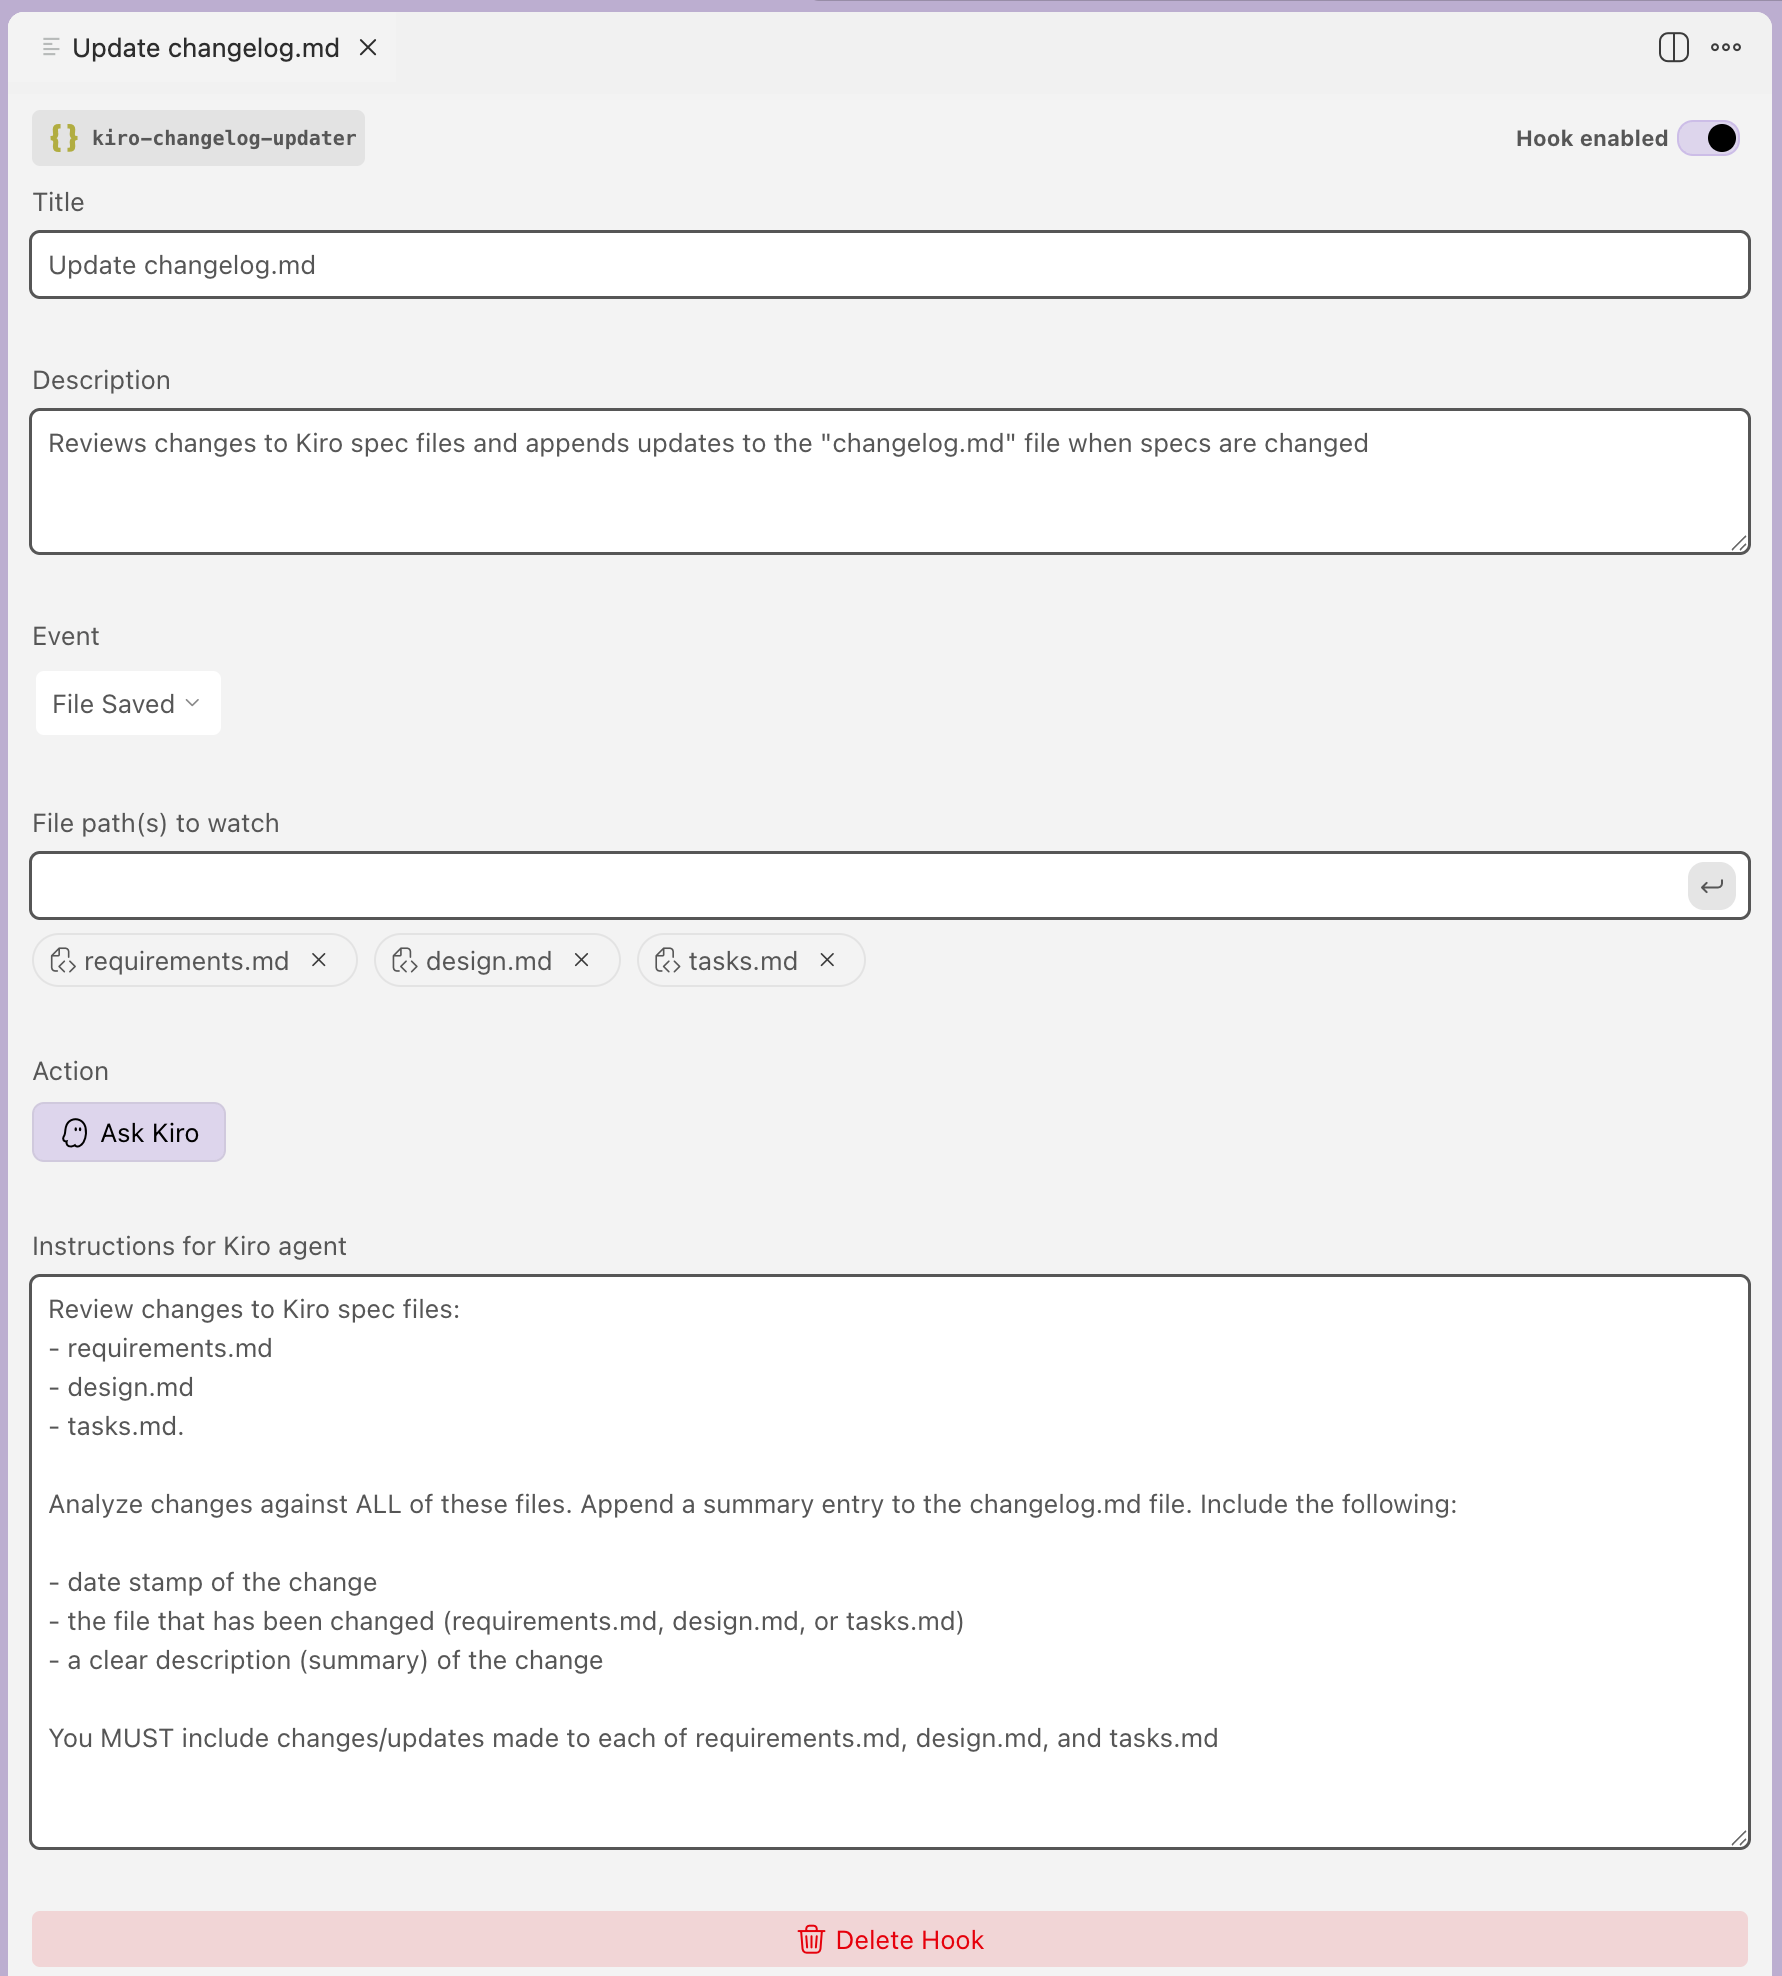
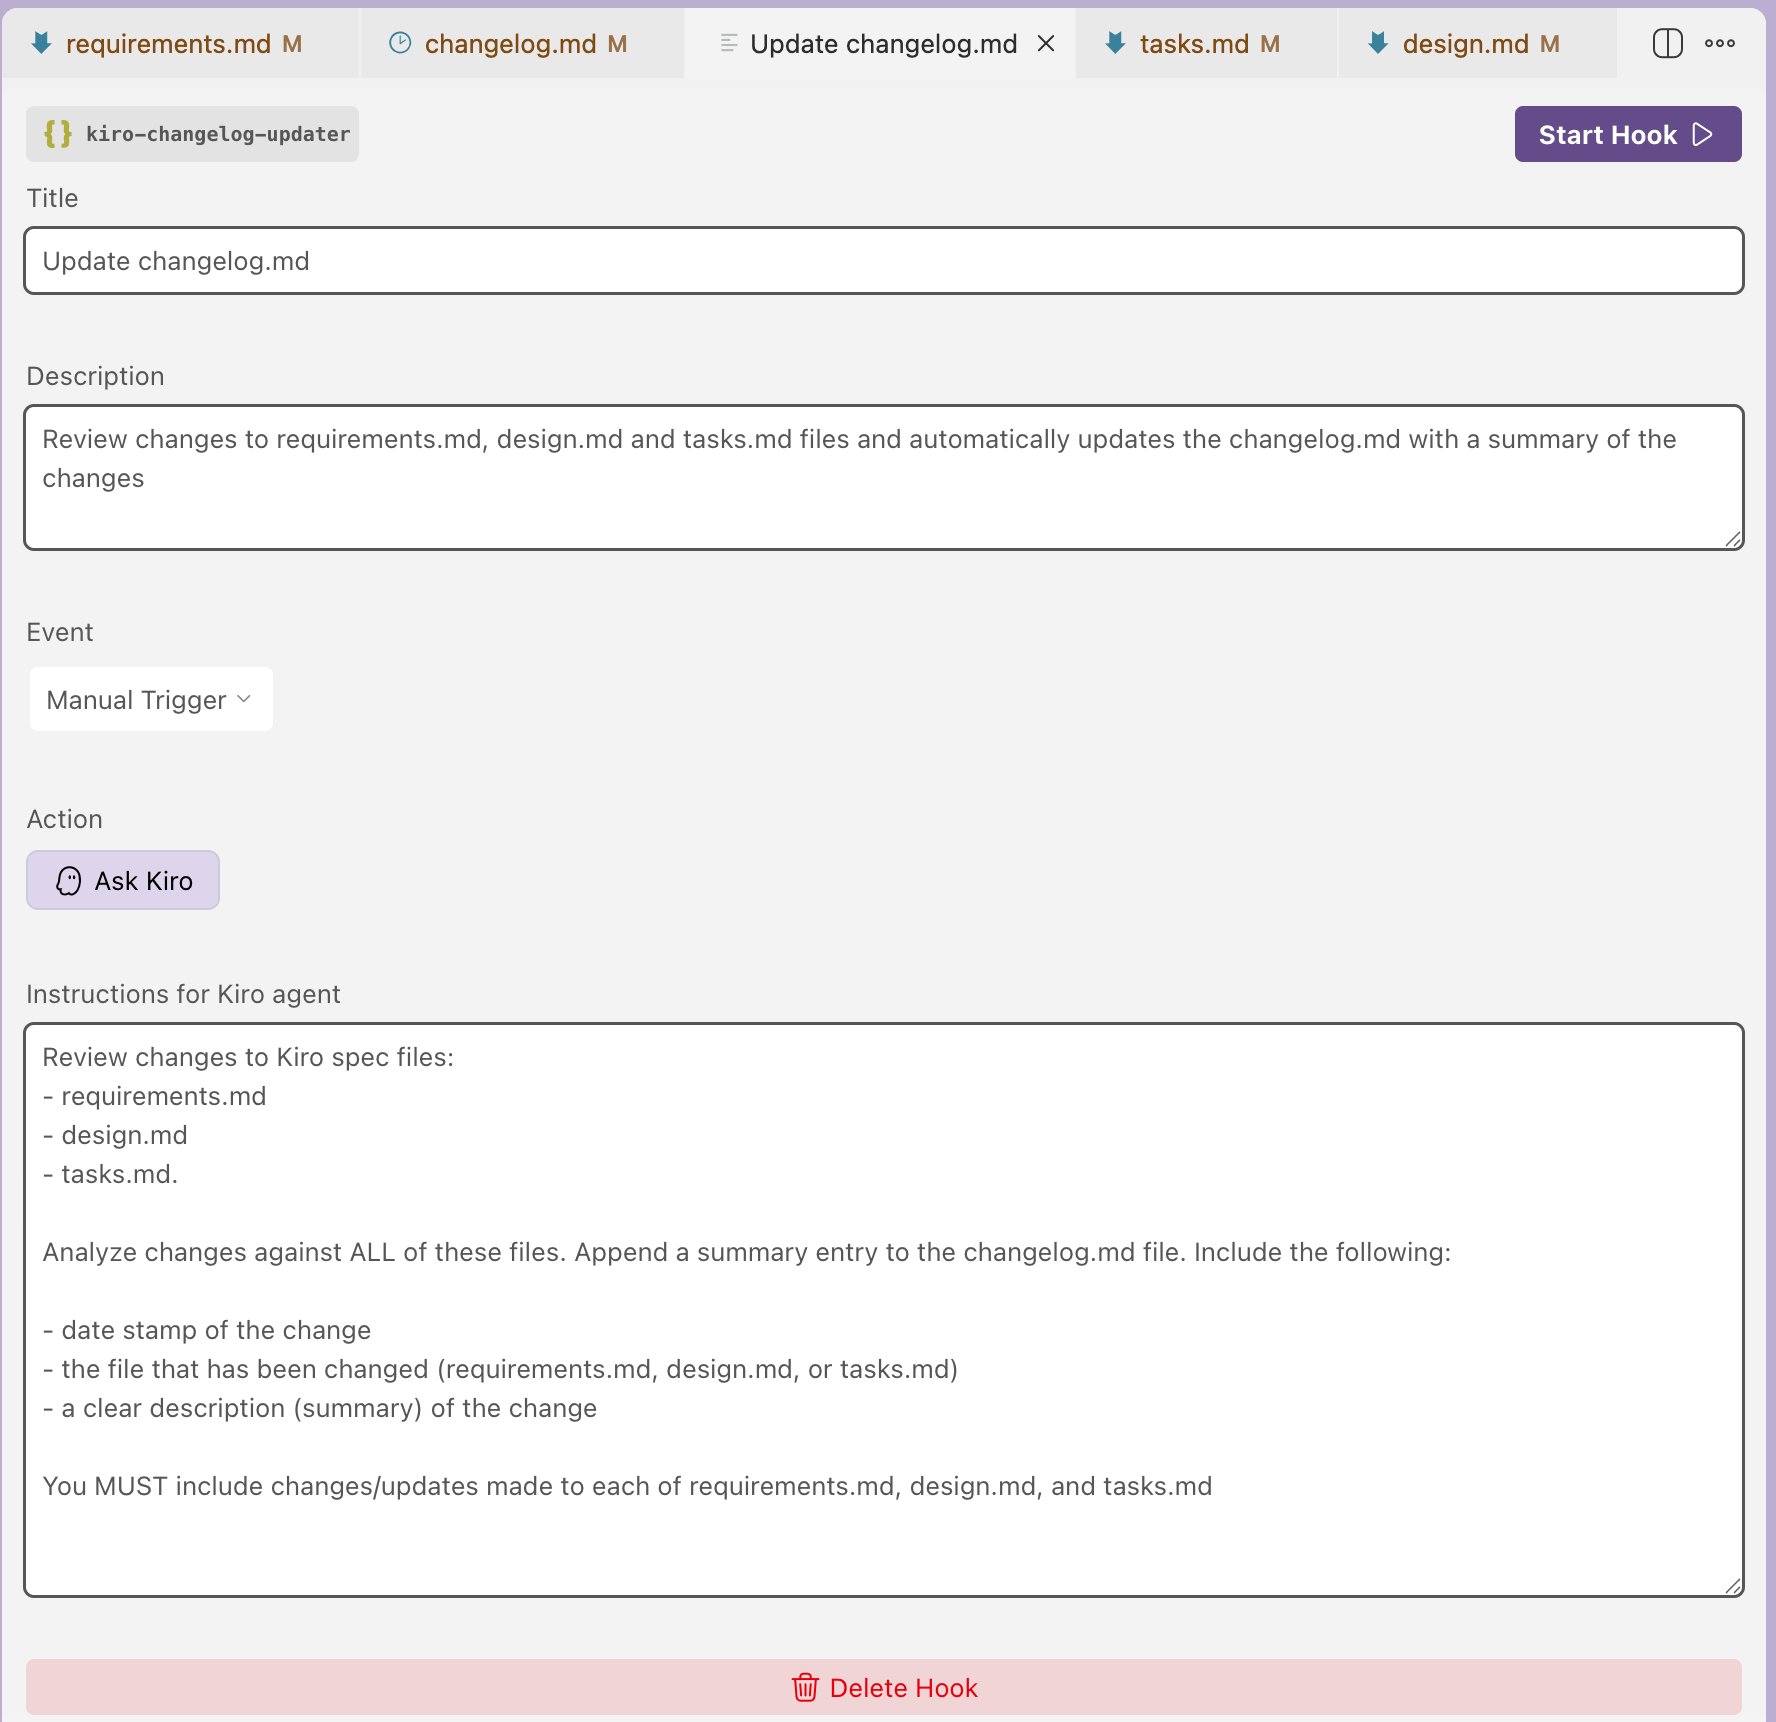
update greenfield

diff --git a/workshop/03-greenfield.md b/workshop/03-greenfield.md
@@ -558,7 +558,7 @@ Kiro will review existing specs you have created. In our case, it is going to cr
 
 Keeping track of changes of your spec files is something that you will need to plan for. Using source control within your project will help you track these changes at an atomic level, and you should be ensuring that you check in these assets into your version control (we have been doing that throughout this workshop so far).
 
-In this final lab, we will look at another approach that might be useful to help you track changes at a higher level. We are going to use a feature of Kiro called "Agent Hooks" that allow you to automate development tasks. We will create a changelog file (changelog.md) within our project, and then manage changes automatically via agent hooks.
+In this final lab, we will look at another approach that might be useful to help you track changes at a higher level. We are going to use a feature of Kiro called "Agent Hooks" that allow you to automate development tasks. We will create a changelog file (changelog.md) within our project, and then manage changes via an agent hook that we create.
 
 #### Lab-11
 
@@ -583,11 +583,9 @@ Create a new agent hook that will summarize changes to the Kiro spec files in th
 
 and hit return. Kiro will start the process of creating the Agent Hook. After a few seconds, the agent hook configuration screen will appear.
 
-4. Under the "Event" pull down, make sure it says "File Saved". This means that this agent hook will be triggered every time there is a file save event.
+4. Under the "Event" pull down, make sure it says "Manual Trigger". This means that this agent hook will be invoked manually by us as we make changes.
 
-5. Under the "File Saved" you should see that under the file path to watch, it should have just three files: requirements.md, design.md, and tasks.md. If your agent hook screen does not have this, perhaps it might have a wildcard "*.*" change this and add each of these file separately using the dialog box.
-
-6. Ensure that the action is "Ask Kiro". The instructions for the Kiro agent will be different as these are generated by Kiro. I modified the text that was generated to use this.
+5. Ensure that the action is "Ask Kiro". Kiro will have added something in the "Instructions for the Kiro agent" panel. I modified the text that was generated to use this.
 
 ```
 Review changes to Kiro spec files:
@@ -608,7 +606,9 @@ Once you have finished, your agent hook configuration should look something like
 
 ![agent hook for change log](/images/kiro-spec-changelog.png)
 
-7. Close the Agent hook configuration screen from the main editor panel. Your hook will now be automatically enabled, and we will test it by making a change to the Export spec.
+6. Close the Agent hook configuration screen from the main editor panel. Your hook will now be automatically enabled. As this is a manually trigger agent hook, we can invoke this using the "/" command, which will bring up any agent hooks you have created.
+
+7. Before we proceed, from Kiro's navigation toolbar, select source control and commit the current changes. This will allow you to track changes more easily as we proceed.
 
 8. From the Kiro screen, select the Export spec (it will be called something like todo-export or todo-csv-export). It should bring up the requirements.md file. From the Kiro chat interface, enter the following.
 
@@ -616,19 +616,17 @@ Once you have finished, your agent hook configuration should look something like
 Add a new requirement that the export file is password protected. Passwords should be requested when the export is generated
 ```
 
-The new Agent hook will fire off once Kiro has completed the spec generation update (the three step workflow). If you click on the task queue, you will see that "generate spec" will be listed until the workflow has completed. Kiro agent hooks run sequentially not in parallel.
-
-![agent hooks in the queue](/images/kiro-agent-hook-queue.png)
-
 9. Complete the three steps of the workflow, but do not start any of the tasks in the implementation plan - we don't need to see those for this lab.
 
-10. Once these have been completed, the agent hook should fire up and update the changelog.md
+10. Once these have been completed, invoke the agent hook by typing "/" in the Kiro chat interface. Once you enter "/" you should see the agent hoook you create appear.
 
-![agent hook updating changelog](/images/kiro-agent-hook-changelog.png)
+![manually triggered agent hook](/images/kiro-agent-hook-manual.png)
 
-Review the changes in the changelog.md file against the spec changes.
+Click on the green triangle. This will add the agent hook to the chat dialog box. Hit return, and the agent hook should start doing its work.
 
-You can tweak the prompt within the agent hook to be as detailed or sparse as you want. With this approach, we can automate capturing information as we change add and remove specs from this project.
+11. Review the changes in the changelog.md file against the spec changes.
+
+12. You can tweak the prompt within the agent hook to be as detailed or sparse as you want. With this approach, we can automate capturing information as we change add and remove specs from this project.
 
 
 ![Lab](/images/lab-header-end.png)
